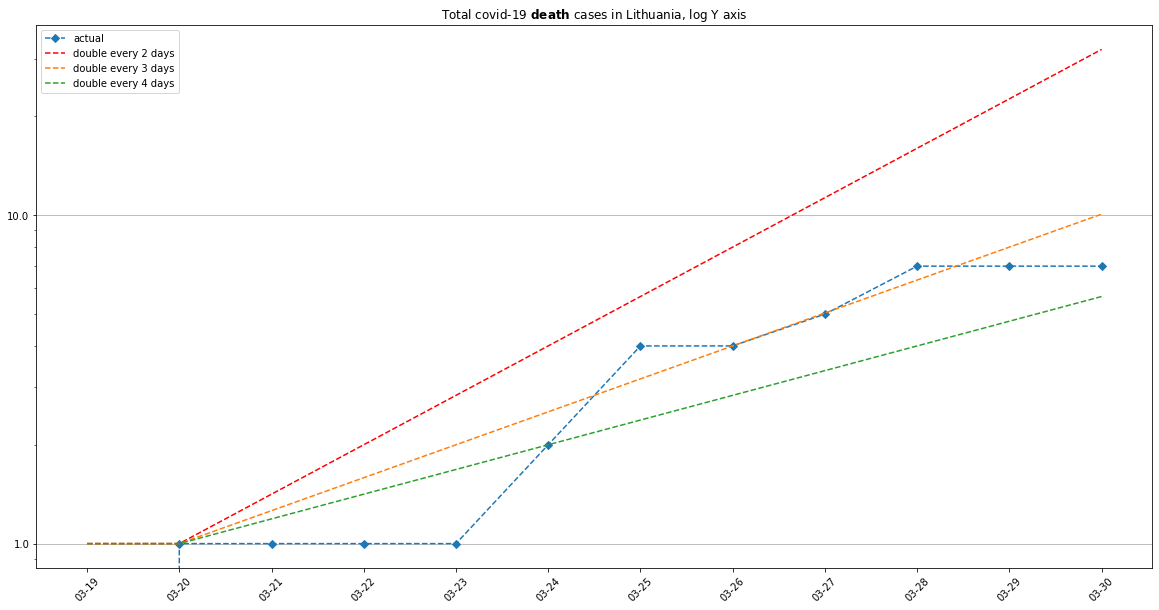
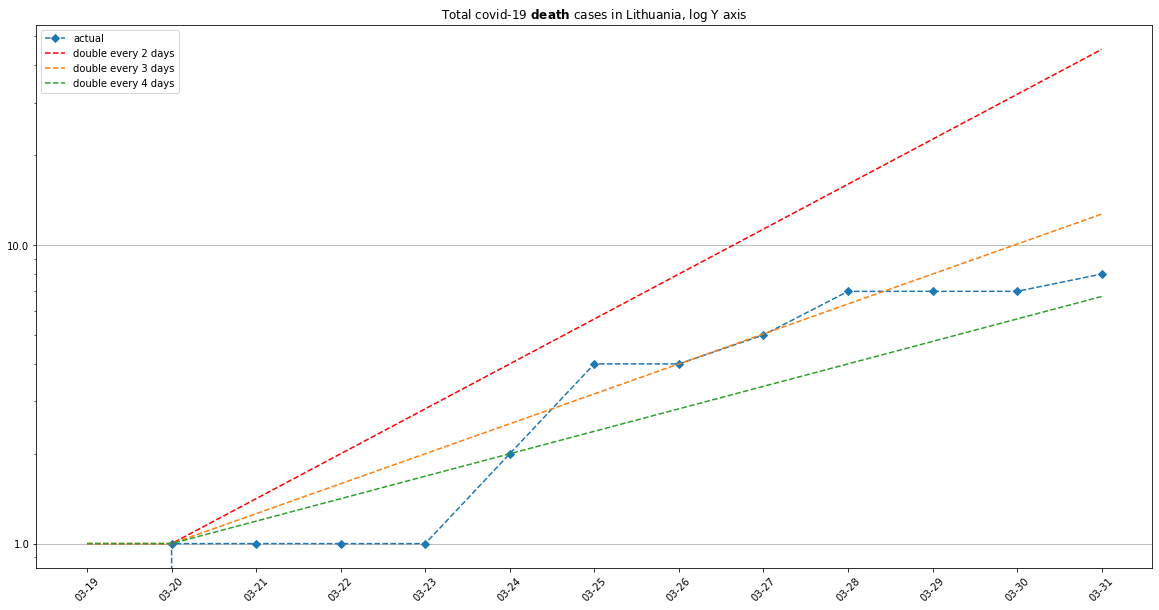
Data 03-31

diff --git a/README.md b/README.md
@@ -6,6 +6,9 @@
 ## Total death cases
 ![Projections death cases](index_d.png)
 
+## Daily new cases
+![Daily new cases](index_daily.png)
+
 ## Data sources
 - [https://github.com/mpiktas/covid19lt](https://github.com/mpiktas/covid19lt)
 
